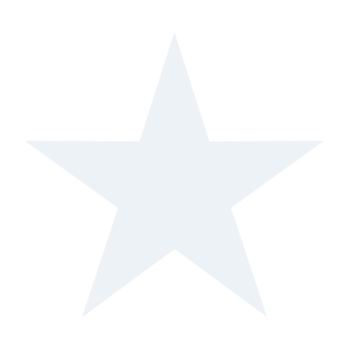
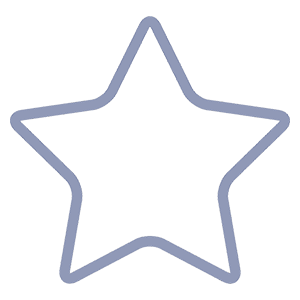
сдаю

Changed region(s): [[0.03, 0.03, 0.99, 0.96]]

diff --git a/style.css b/style.css
@@ -4,7 +4,7 @@ body {
     justify-content: center;
     color: #ffffff;
     font-family: 'Ubuntu', arial;
-    font-size: 12px;
+    font-size: 11px;
 } 
 header{
     width: 640px;
@@ -23,14 +23,15 @@ header{
     display: flex;
 }
 .top-menu-item img {
-    width: 20px;
+    /*width: 20px;*/
     height: 20px;
-    margin-right: 10px;
-    margin-left: 5px;
+    padding-right: 10px;
 }
 .top-menu-item {
     height: 100%;
-    padding: 0 15px;
+    padding-right: 18px;
+    padding-left: 15px;
+    font-size: 12px;
 }
 .top-menu-item:hover {
     background-color: #4a5072;
@@ -38,14 +39,14 @@ header{
     cursor: pointer;
 }
 .me {
-    padding-right: 10px; 
+    padding-right: 15px; 
 }
 .me img {
     width: 20px;
     height: 20px;
 }
 h2 {
-    font: 15px;
+    font: 14px;
 }
 h3 {
     font: 12px;
@@ -55,13 +56,9 @@ h3 {
     border-radius: 50%;
     width: 16px;
     height: 16px;
-    top: -9px;
-    right: -4px;
-} 
-.five {
-    text-align: center; 
+    top: 10px;
+    right: 163px;
     font-size: 11px;
-    padding-top: 2px;
 }
 .avatar {
     float: right;
@@ -179,8 +176,8 @@ h3 {
     border-radius: 50%;
     width: 140px;
     height: 140px;
-    margin-top: 10px;
-    margin-bottom: 10px;
+    margin-top: 20px;
+    margin-bottom: 0px;
     background-color: transparent;
     background-image:                                           
                       linear-gradient(305deg, #15a6a9 50%, transparent 50%),
@@ -314,7 +311,7 @@ button:hover {
 }
 .social-block-bottom {
     width: 50px;
-    height: 20px;
+    height: 15px;
     padding: 5px 0px;
 }
 .fb-bottom {
@@ -355,9 +352,10 @@ button:hover {
     border-radius: 50%;
     border: solid 4px #515c7a;
 }
- .text-foto-bottom {
+.text-foto-bottom {
     margin-bottom: 20px;
     text-align: center;
+    padding: 0px 15px;
 } 
 .center-color-blocks {
     display: flex;
@@ -369,18 +367,18 @@ button:hover {
 .center-color-red {
     width: 110px;
     border-bottom-left-radius: 5px;
-    border-top: solid 2px #e64c65;
+    border-top: solid 3px #e64c65;
     border-right: solid 1px #1F253d;
 }
 .center-color-green {
     width: 98px;
-    border-top: solid 2px #10a8ab;
+    border-top: solid 3px #10a8ab;
     border-right: solid 1px #1F253d;
 }
 .center-color-yellow {
     width: 110px;
     border-bottom-right-radius: 5px;
-    border-top: solid 2px #f3b562;
+    border-top: solid 3px #f3b562;
 }
 .icon-mini {
     height: 20px;
@@ -397,16 +395,16 @@ button:hover {
     height: 40px;
 }
 .date {
-    font-size: 14px;
-    padding: 15px 0px 0px 30px;
+    font-size: 12px;
+    padding: 10px 0px 0px 30px;
 }
 .weather {
-    font-size: 42px;
-    padding: 0px 0px 10px 0px;
+    font-size: 44px;
 }
 .weather img{
     height: 50px;
-    padding-left: 30px;
+    padding-left: 20px;
+    padding-bottom: 15px;
 }
 .wrapper {
     height: 40px;
@@ -512,7 +510,7 @@ span{
     border-bottom-right-radius: 5px;
 }
  .subscribe {
-    display: inline-block;
+    margin-top: 0px;
  }
  .name-block {
     height: 40px;
@@ -520,13 +518,12 @@ span{
 }         
 .email-enter {
     width: 170px;
-    height: 30px;
-    margin: 10px 0px;
-    text-indent: 40px;
+    /*height: 30px;*/
+    padding: 10px 0px;
+    text-indent: 35px;
     color: rgb(121, 24, 24);
     border: solid 1px #10a8ab;
     background-color: #50597b; 
-    display: inline-block;
 }
 input::placeholder {
     color: white;
@@ -538,12 +535,12 @@ input::placeholder {
 .subscribe-button {
     background-color: #10a8ab;
     margin-bottom: 20px;
-    margin-top: 10px;
+    margin-top: 15px;
 }      
 .subscribe-button, .sign-in-button, .add-event {
     width: 110px;
     height: 35px;
-    font-size: 12px;
+    font-size: 11px;
     border-radius: 3px;
 }                             
 .subscribe-button:hover {
@@ -566,8 +563,9 @@ input::placeholder {
 }
 .password-form {
     width: 170px;
-    height: 30px;
-    text-indent: 40px;
+    /*height: 30px;*/
+    padding: 10px 0px;
+    text-indent: 35px;
     border: solid 1px #1f253d;
     background-color: #50597b; 
 }
@@ -588,11 +586,11 @@ input::placeholder {
     margin-top: 15px;
 } 
 .download-upload-text {
-    height: 50px;
     width: 160px;
     display: flex;
     justify-content: space-between;
     align-items: center;
+    padding: 10px 0px 10px 0px;
 } 
 .download-pic-green {
     width: 140px;
@@ -643,7 +641,7 @@ input::placeholder {
     margin-left: 30px;
 }
 .date-right {
-    font-size: 80px;
+    font-size: 90px;
     background: #3468af;
 } 
 .blue {
@@ -660,14 +658,12 @@ input::placeholder {
 }
 .calendar {
     margin-top: 15px;
-    padding-bottom: 10px;
 }   
 .top-calendar {
     border-top-left-radius: 5px;
     border-top-right-radius: 5px;
     background: #3468af;
     height: 40px;
-    margin-bottom: 10px;
 }
 .top-calendar img { 
     height: 20px;
@@ -682,7 +678,7 @@ table {
     display: inline;
     border-collapse: collapse; 
     font-size: 10px;
-    padding: 5px;
+    padding: 10px 5px 15px 5px;
 }
 th {
     padding: 8px 8px; 
@@ -704,4 +700,7 @@ th {
 }
 .calendar, .wednesday, .download-upload, .sign-in, .email-enter, .password-form, .subscribe, .google-icon, .twitter-icon, .fb-icon, .tweets, .forecast, .video, .chart, .left-circle-block, header {
     border-radius: 5px;
+}
+.margin-top {
+    margin-top: 15px;
 }

diff --git a/index.html b/index.html
@@ -14,17 +14,14 @@
             <div class="top-menu-items">
                 <div class="top-menu-item center"><img src="img/setting-g.png">Settings</div>
                 <div class="top-menu-item center"><img src="img/acc-g.png">Account</div>
-                <div class="top-menu-item center"><img src="img/email-g.png">Messages
-                    <div class="red-circle background-red">
-                        <div class="five">5</div>
-                    </div>
-                </div>
-                <div class="top-menu-item center"><img src="img/Star-g.png">Favorites</div>
+                <div class="top-menu-item center"><img src="img/email-g.png">Messages</div>
+                <div class="top-menu-item center"><img src="img/Star.png">Favorites</div>
                 <div class="top-menu-item center"></div>
+                <div class="red-circle background-red center">5</div> 
             </div>
             <div class="me center">Me<img src="img/me-g.png">
                 <div class="avatar"><img src="img/avatar.jpg"></div>
-            </div>    
+            </div>   
         </header>
         <div class="columns">
             <div class="column">
@@ -272,8 +269,8 @@
                 <div class="sign-in background-dark-gray">
                     <form id="signup">
                         <div class="name-block center">SIGN&nbspIN&nbspTO&nbspYOUR&nbspACCOUNT</div>
-                        <div class="center"><input type="email" placeholder="yourname@gmail.com" required="" class="email-enter"><img src="img/email-g.png" class="input-icon"></div>
-                        <div class="center"><input type="password" placeholder="Password" required="" class="password-form"><img src="img/lock-g.png" class="input-icon"></div>			
+                        <div class="center margin-top"><input type="email" placeholder="yourname@gmail.com" required="" class="email-enter"><img src="img/email-g.png" class="input-icon"></div>
+                        <div class="center margin-top"><input type="password" placeholder="Password" required="" class="password-form"><img src="img/lock-g.png" class="input-icon"></div>			
                         <div class="center"><button type="submit" class="sign-in-button background-red">SIGN IN</button></div>	
                     </form>
                     <div class="center forgot-password">Forgot password?</div>         
@@ -309,7 +306,7 @@
                 </div>
                 <div class="wednesday">
                     <div class="top-wednesday center"><img src="img/back_icon.png">WEDNESDAY<img src="img/play_icon.png"></div>
-                    <div class="date-right center">26</div>
+                    <div class="date-right center padding-top">26</div>
                     <div class="center blue">
                         <button class="center add-event">ADD EVENT</button> 
                     </div>
